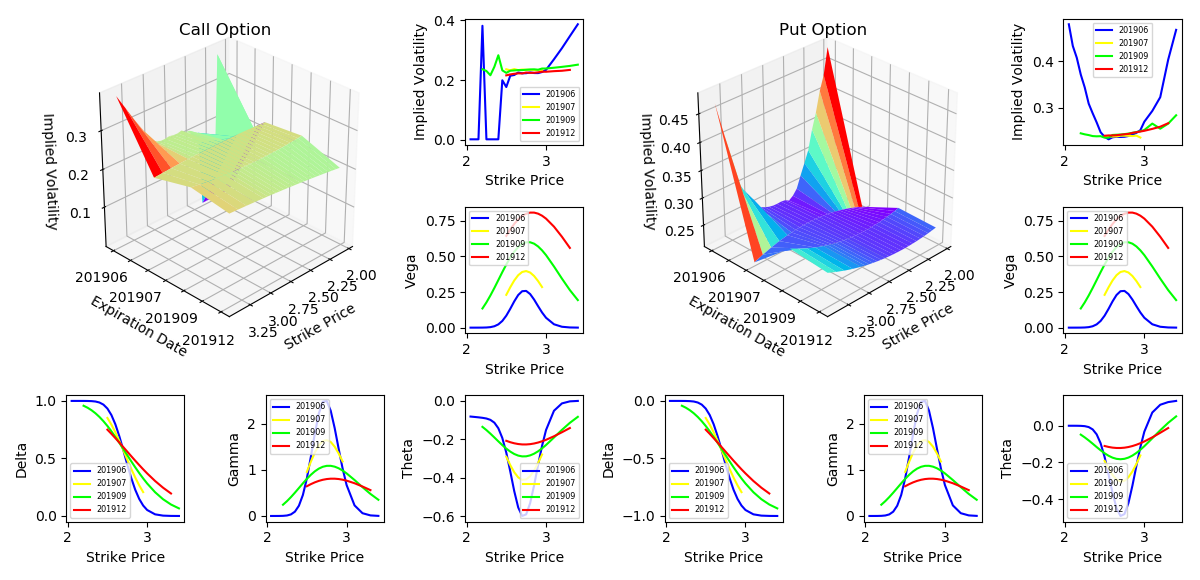
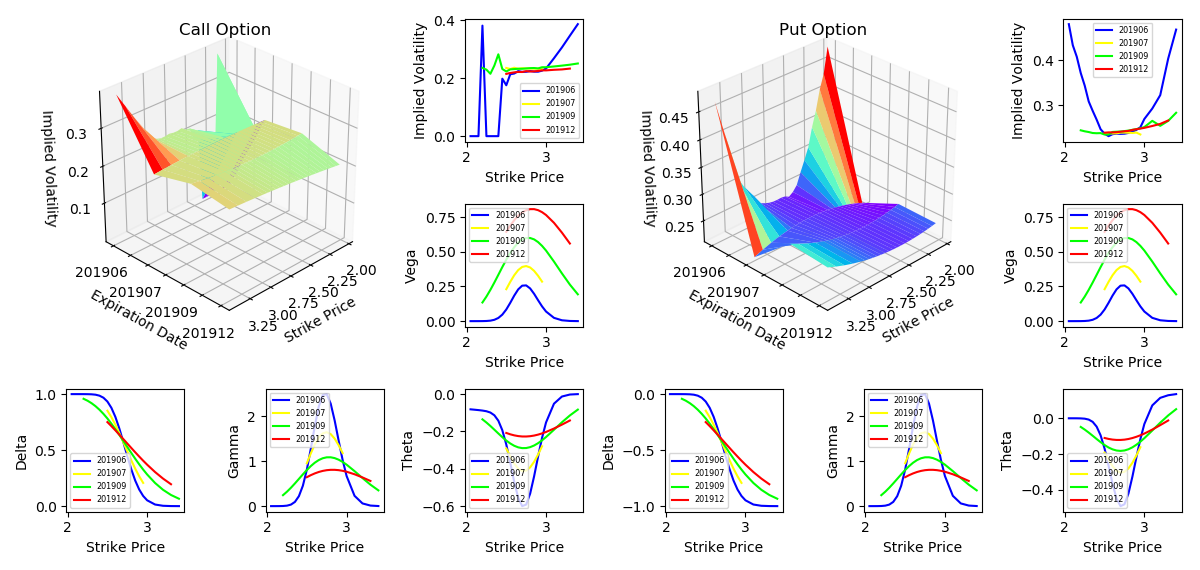
修改细节

diff --git a/volatility_surface.py b/volatility_surface.py
@@ -144,7 +144,7 @@ def main():
     xx, call_y2, put_y2 = fit(call_x, call_ys[-1], put_x, put_ys[-1])
     yy = list(range(len(call_y2)))
     x, y = meshgrid(xx, yy)
-    fig = plt.figure(figsize=(12, 5.8))
+    fig = plt.figure(figsize=(12, 5.7))
     gs = gridspec.GridSpec(3, 6, figure=fig)
     ylabels = ['Delta', 'Gamma', 'Theta', 'Vega', 'Implied Volatility']
     call_gs = [gs[2:3, :1], gs[2:3, 1:2], gs[2:3, 2:3], gs[1:2, 2:3], gs[:1, 2:3]]
